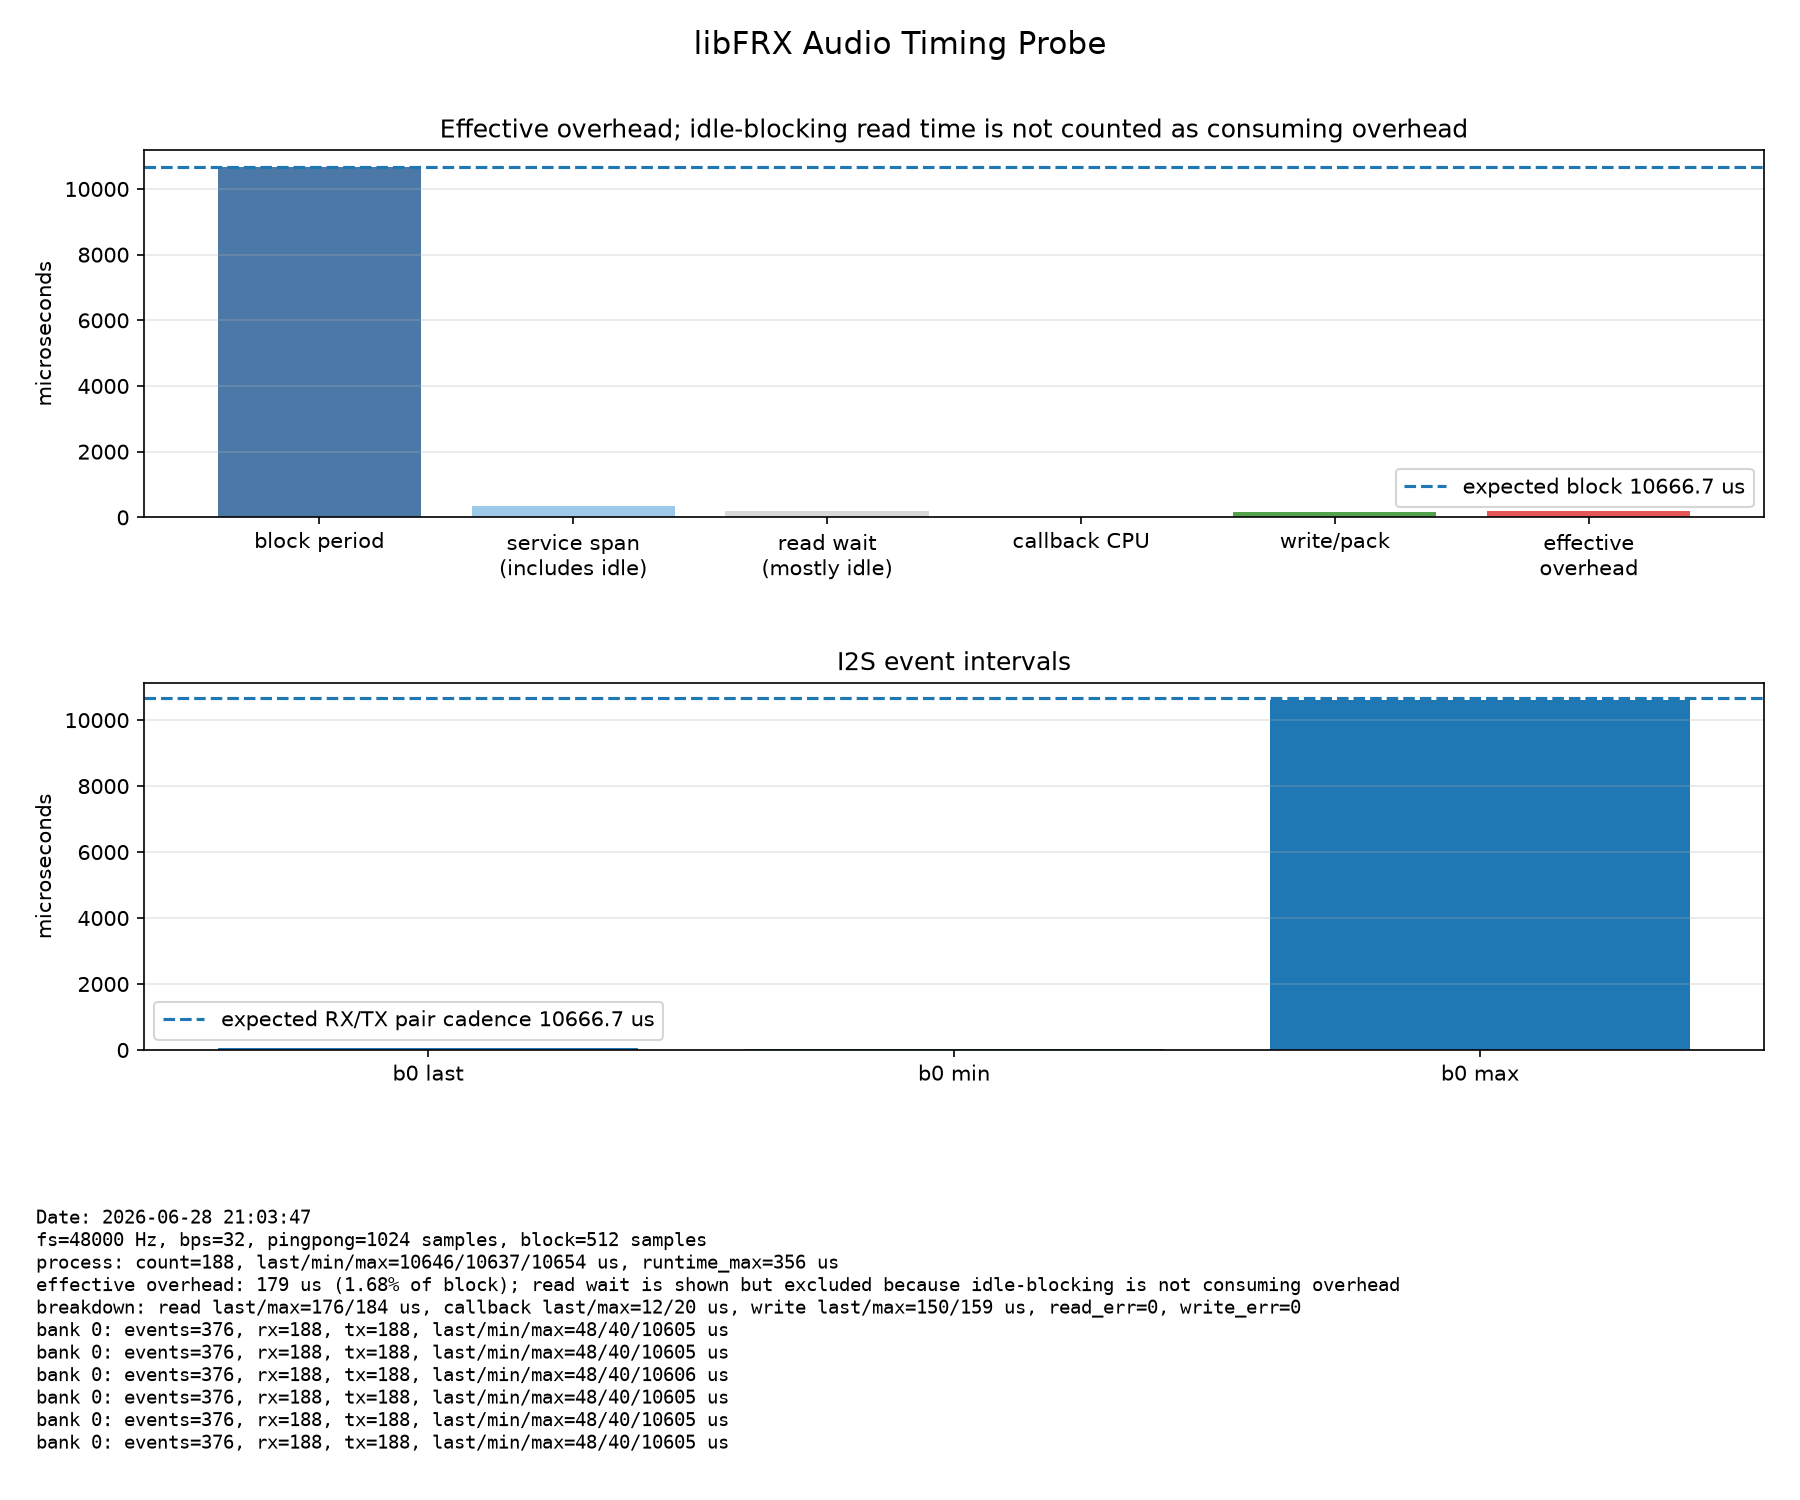
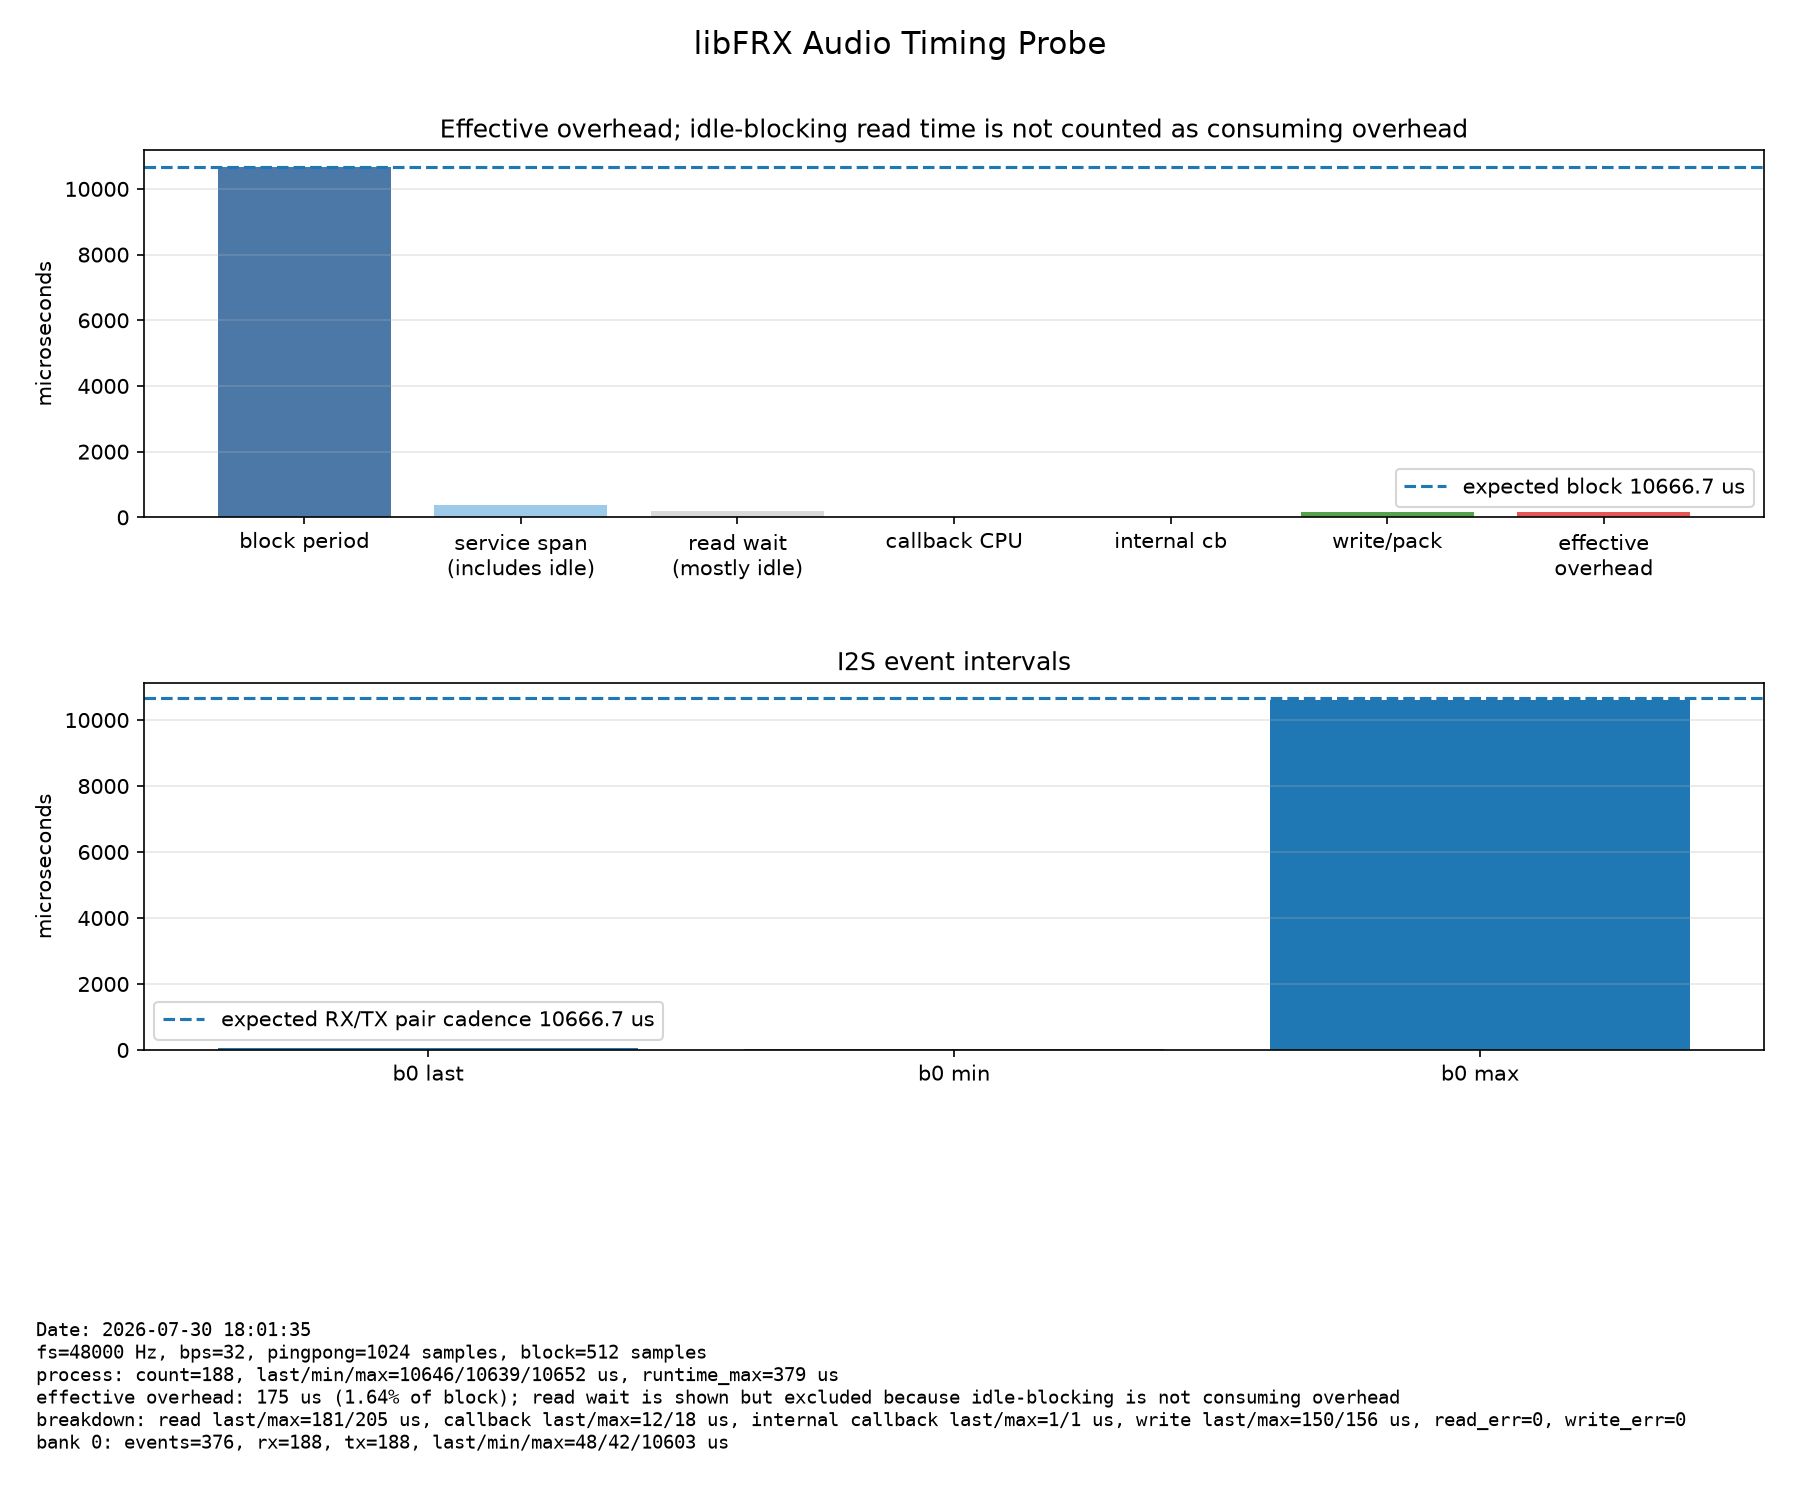
add: internal audio cb timing

diff --git a/shared/scripts/audio_timing_plot.py b/shared/scripts/audio_timing_plot.py
@@ -30,6 +30,9 @@ class ProcessTiming:
     callback_count: int = 0
     callback_last_us: int = 0
     callback_max_us: int = 0
+    internal_callback_count: int = 0
+    internal_callback_last_us: int = 0
+    internal_callback_max_us: int = 0
     write_count: int = 0
     write_last_us: int = 0
     write_max_us: int = 0
@@ -156,8 +159,25 @@ def _run_block_sweep(env: str, blocks: list[int], pingpong_factor: int, clean: b
 def _parse_timing(output: str) -> tuple[ProcessTiming, list[BankTiming]]:
     proc_re = re.compile(
         r"AUDIO_TIMING process count=(\d+) delta_us last=(\d+) min=(\d+) max=(\d+) "
+        r"runtime_max=(\d+)"
+    )
+    proc_short_re = re.compile(r"AUDIO_TIMING proc c=(\d+) l=(\d+) n=(\d+) x=(\d+) r=(\d+)")
+    read_short_re = re.compile(r"AUDIO_TIMING read c=(\d+) l=(\d+) x=(\d+) e=(\d+)")
+    cb_short_re = re.compile(r"AUDIO_TIMING cb c=(\d+) l=(\d+) x=(\d+)")
+    intcb_short_re = re.compile(r"AUDIO_TIMING intcb c=(\d+) l=(\d+) x=(\d+)")
+    write_short_re = re.compile(r"AUDIO_TIMING write c=(\d+) l=(\d+) x=(\d+) e=(\d+)")
+    io_re = re.compile(
+        r"AUDIO_TIMING io read_count=(\d+) read_last=(\d+) read_max=(\d+) "
+        r"cb_count=(\d+) cb_last=(\d+) cb_max=(\d+) "
+        r"int_cb_count=(\d+) int_cb_last=(\d+) int_cb_max=(\d+) "
+        r"write_count=(\d+) write_last=(\d+) write_max=(\d+) "
+        r"read_err=(\d+) write_err=(\d+)"
+    )
+    old_proc_re = re.compile(
+        r"AUDIO_TIMING process count=(\d+) delta_us last=(\d+) min=(\d+) max=(\d+) "
         r"runtime_max=(\d+) read_count=(\d+) read_last=(\d+) read_max=(\d+) "
         r"cb_count=(\d+) cb_last=(\d+) cb_max=(\d+) "
+        r"(?:int_cb_count=(\d+) int_cb_last=(\d+) int_cb_max=(\d+) )?"
         r"write_count=(\d+) write_last=(\d+) write_max=(\d+) "
         r"read_err=(\d+) write_err=(\d+)"
     )
@@ -165,13 +185,36 @@ def _parse_timing(output: str) -> tuple[ProcessTiming, list[BankTiming]]:
         r"AUDIO_TIMING bank=(\d+) count=(\d+) rx=(\d+) tx=(\d+) "
         r"delta_us last=(\d+) min=(\d+) max=(\d+)"
     )
+    bank_short_re = re.compile(r"AUDIO_TIMING bank=(\d+) c=(\d+) rx=(\d+) tx=(\d+) l=(\d+) n=(\d+) x=(\d+)")
 
     p = ProcessTiming()
     banks: list[BankTiming] = []
     for line in output.splitlines():
-        if m := proc_re.search(line):
-            p = ProcessTiming(*(int(x) for x in m.groups()))
+        if m := old_proc_re.search(line):
+            p = ProcessTiming(*(int(x) if x is not None else 0 for x in m.groups()))
+        elif m := proc_re.search(line):
+            p.count, p.last_us, p.min_us, p.max_us, p.runtime_max_us = (int(x) for x in m.groups())
+        elif m := proc_short_re.search(line):
+            p.count, p.last_us, p.min_us, p.max_us, p.runtime_max_us = (int(x) for x in m.groups())
+        elif m := io_re.search(line):
+            (
+                p.read_count, p.read_last_us, p.read_max_us,
+                p.callback_count, p.callback_last_us, p.callback_max_us,
+                p.internal_callback_count, p.internal_callback_last_us, p.internal_callback_max_us,
+                p.write_count, p.write_last_us, p.write_max_us,
+                p.read_err, p.write_err,
+            ) = (int(x) for x in m.groups())
+        elif m := read_short_re.search(line):
+            p.read_count, p.read_last_us, p.read_max_us, p.read_err = (int(x) for x in m.groups())
+        elif m := cb_short_re.search(line):
+            p.callback_count, p.callback_last_us, p.callback_max_us = (int(x) for x in m.groups())
+        elif m := intcb_short_re.search(line):
+            p.internal_callback_count, p.internal_callback_last_us, p.internal_callback_max_us = (int(x) for x in m.groups())
+        elif m := write_short_re.search(line):
+            p.write_count, p.write_last_us, p.write_max_us, p.write_err = (int(x) for x in m.groups())
         elif m := bank_re.search(line):
+            banks.append(BankTiming(*(int(x) for x in m.groups())))
+        elif m := bank_short_re.search(line):
             banks.append(BankTiming(*(int(x) for x in m.groups())))
     return p, banks
 
@@ -197,7 +240,7 @@ def _plot(
     fig.subplots_adjust(left=0.08, right=0.98, top=0.90, bottom=0.30, hspace=0.45)
     fig.suptitle("libFRX Audio Timing Probe", fontsize=15)
 
-    effective_overhead_us = process.callback_max_us + process.write_max_us
+    effective_overhead_us = process.callback_max_us + process.internal_callback_max_us + process.write_max_us
     effective_overhead_pct = (effective_overhead_us / expected_us * 100.0) if expected_us else None
 
     labels = [
@@ -205,6 +248,7 @@ def _plot(
         "service span\n(includes idle)",
         "read wait\n(mostly idle)",
         "callback CPU",
+        "internal cb",
         "write/pack",
         "effective\noverhead",
     ]
@@ -213,10 +257,11 @@ def _plot(
         process.runtime_max_us,
         process.read_max_us,
         process.callback_max_us,
+        process.internal_callback_max_us,
         process.write_max_us,
         effective_overhead_us,
     ]
-    colors = ["#4c78a8", "#9ecae9", "#d9d9d9", "#f58518", "#54a24b", "#e45756"]
+    colors = ["#4c78a8", "#9ecae9", "#d9d9d9", "#f58518", "#b279a2", "#54a24b", "#e45756"]
     axes[0].bar(labels, vals, color=colors)
     if expected_us:
         axes[0].axhline(expected_us, linestyle="--", label=f"expected block {expected_us:.1f} us")
@@ -255,6 +300,7 @@ def _plot(
         f"read wait is shown but excluded because idle-blocking is not consuming overhead\n"
         f"breakdown: read last/max={process.read_last_us}/{process.read_max_us} us, "
         f"callback last/max={process.callback_last_us}/{process.callback_max_us} us, "
+        f"internal callback last/max={process.internal_callback_last_us}/{process.internal_callback_max_us} us, "
         f"write last/max={process.write_last_us}/{process.write_max_us} us, "
         f"read_err={process.read_err}, write_err={process.write_err}\n"
         f"{bank_summary}"

diff --git a/lib/audio/audio_timing_tools.h b/lib/audio/audio_timing_tools.h
@@ -29,6 +29,9 @@ typedef struct{
     uint32_t callback_count;
     uint32_t callback_last_runtime_us;
     uint32_t callback_max_runtime_us;
+    uint32_t internal_callback_count;
+    uint32_t internal_callback_last_runtime_us;
+    uint32_t internal_callback_max_runtime_us;
     uint32_t write_count;
     uint32_t write_last_runtime_us;
     uint32_t write_max_runtime_us;
@@ -50,6 +53,7 @@ uint64_t audio_timing_mark_process_start(audio_timing_state_t* state);
 void audio_timing_mark_process_end(audio_timing_state_t* state, uint64_t process_start_us);
 void audio_timing_mark_read_runtime(audio_timing_state_t* state, uint64_t start_us);
 void audio_timing_mark_callback_runtime(audio_timing_state_t* state, uint64_t start_us);
+void audio_timing_mark_internal_callback_runtime(audio_timing_state_t* state, uint64_t start_us);
 void audio_timing_mark_write_runtime(audio_timing_state_t* state, uint64_t start_us);
 void audio_timing_mark_read_error(audio_timing_state_t* state);
 void audio_timing_mark_write_error(audio_timing_state_t* state);

diff --git a/lib/audio/audio_timing_tools.cpp b/lib/audio/audio_timing_tools.cpp
@@ -90,6 +90,14 @@ void audio_timing_mark_callback_runtime(audio_timing_state_t* state, uint64_t st
     if(runtime_us > state->counters.callback_max_runtime_us) state->counters.callback_max_runtime_us = runtime_us;
 }
 
+void audio_timing_mark_internal_callback_runtime(audio_timing_state_t* state, uint64_t start_us){
+    if(!state || !start_us) return;
+    uint32_t runtime_us = (uint32_t)(esp_timer_get_time() - start_us);
+    state->counters.internal_callback_count++;
+    state->counters.internal_callback_last_runtime_us = runtime_us;
+    if(runtime_us > state->counters.internal_callback_max_runtime_us) state->counters.internal_callback_max_runtime_us = runtime_us;
+}
+
 void audio_timing_mark_write_runtime(audio_timing_state_t* state, uint64_t start_us){
     if(!state || !start_us) return;
     uint32_t runtime_us = (uint32_t)(esp_timer_get_time() - start_us);

diff --git a/tests/audio_strings.py b/tests/audio_strings.py
@@ -1,4 +1,17 @@
 # Auto-generated from audio_jccl.h
 # Do not edit manually!
 
-AUDIO_SERVER_JOB_NAME = r"audio"
+AUDIO_SERVER_JOB_NAME = r"audiosrv"
+AUDIO_CONTROL_JOB_NAME = r"audioctrl"
+AUDIO_CMD_RESTART = r"restart"
+AUDIO_CMD_STOP = r"stop"
+AUDIO_CMD_VOLUME = r"vol"
+AUDIO_CMD_MUTE = r"mute"
+AUDIO_CMDS = r"Commands: "
+AUDIO_MSG_UNKNOWN_CMD = r"Unknown audio command\."
+AUDIO_MSG_OFFLINE = r"Audio already offline\."
+AUDIO_MSG_ERROR_USAGE = r"Audio command usage error\."
+AUDIO_MSG_ERROR_ERRNUM = r"Audio command failed with error \d+\."
+AUDIO_MSG_RESTARTED = r"Audio restarted\."
+AUDIO_MSG_STOPPED = r"Audio stopped\."
+AUDIO_MSG_VOLUME = r"Audio volume set to \d+/1000\."
